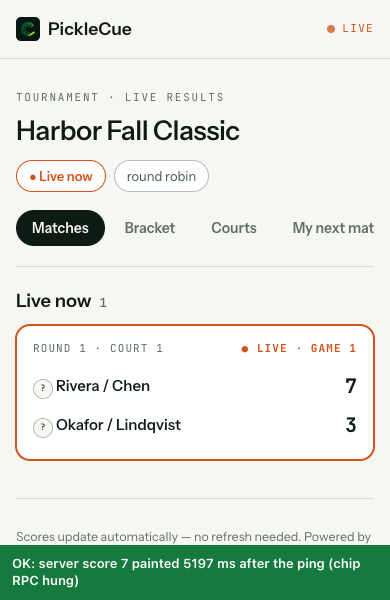
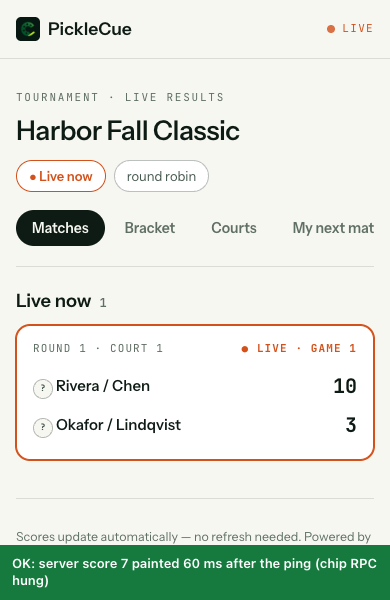
fix(live): paint scores first, fetch the registration chip after (review P2) [skip ci]
With the chip RPC hung and pings closer than 5 s apart, each newer refetch
cancelled the older one's paint and then waited itself, so scores could
stop painting. Now the snapshot paints at once; the chip loads afterwards
(5 s timeout) and only the newest refetch's reply applies.
tests/live-reg-timeout.test.mjs case 3 (pings every 2 s, chip hung):
previous commit never/never/never (exit 1) -> 123/79/266 ms (exit 0).

Changed region(s): [[0.4615, 0.93, 0.9846, 0.96], [0.0308, 0.96, 0.2154, 0.99], [0.8615, 0.63, 0.9231, 0.66]]

diff --git a/live.html b/live.html
@@ -705,20 +705,8 @@
                 snap = results[0];
                 regInfo = results[1].data || null;
                 waiver = results[2].data || null;
-                try {
-                    var regId = localStorage.getItem('pc_reg_' + eventId);
-                    if (regId) {
-                        var rs = await withTimeout(PC.client.rpc('registration_status', { p_registration_id: regId }), REG_TIMEOUT_MS);
-                        // A newer refetch applied while this reply was in
-                        // flight: its own reply (and paint) wins.
-                        if (seq !== appliedSeq) return;
-                        myReg = rs.data || null;
-                    }
-                } catch (_) {
-                    // Timed out or failed: keep the last known chip and paint
-                    // the scores, unless a newer refetch has taken over.
-                    if (seq !== appliedSeq) return;
-                }
+                var regId = null;
+                try { regId = localStorage.getItem('pc_reg_' + eventId); } catch (_) {}
             } catch (e) {
                 console.error('[live] snapshot failed', e);
                 // First load failed: say so and retry. Before, the page sat on
@@ -735,6 +723,20 @@
             }
             document.title = ((kind === 't' ? snap.tournament : snap.league).name || 'Live') + ' · PickleCue';
             render();
+            // The chip is fetched after the scores are on screen, so a slow or
+            // hung reply can never hold back (or, with steady pings, starve)
+            // the score paint. Only the newest refetch's reply may apply.
+            if (regId) loadMyReg(seq, regId);
+        }
+        async function loadMyReg(seq, regId) {
+            try {
+                var rs = await withTimeout(PC.client.rpc('registration_status', { p_registration_id: regId }), REG_TIMEOUT_MS);
+                if (seq !== appliedSeq) return;
+                var next = rs.data || null;
+                if (JSON.stringify(next) === JSON.stringify(myReg)) return;
+                myReg = next;
+                render();
+            } catch (_) { /* keep the last known chip */ }
         }
 
         var failCount = 0, retryTimer = null;
